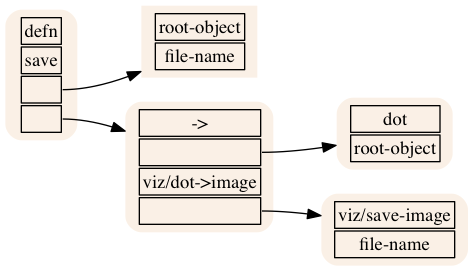
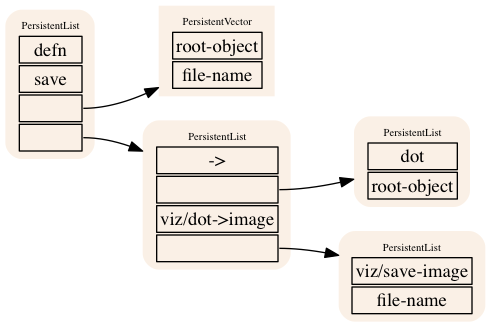
Update README and examples

Changed region(s): [[0.0, 0.0, 0.9767, 0.9742]]

diff --git a/README.md b/README.md
@@ -7,7 +7,9 @@ Graphviz.
 
 ## Usage
 
-Pretty printing 
+Pretty printing can only take you so far; eventually 
+a different visual representation is handy for really seeing how all you
+data is connected and related.
 
 
 ```
@@ -19,6 +21,7 @@ Pretty printing
           :enabled? true
           :vector [1 2 3 4]
           :sequence (iterate inc 1)
+          :set #{:science-fiction :romance :military}
           :atom (atom {:foo :bar :empty {}})
           :empty {}})
 ```
@@ -28,30 +31,46 @@ that displays the following:
 
 ![example](basics.png)
 
-* Maps and Sequences have rounded edges, Vectors have square edges.
+* Maps, Sets, and Sequences have rounded edges, Vectors have square edges.
 
-* The empty map, vector, and sequence are rendered specially.
+* Composite types are labeled with their (abbreviated) type.
 
-* No support for sets yet (early days!)
+* The empty map, vector, hash, and sequence values are rendered specially.
 
 * Refs, such as Atoms and Vars, are supported.
 
-* Sequences are abbreviated; Maps and Vectors are always fully rendered.
+* Sequences are abbreviated; Maps, Sets, and Vectors are always fully rendered.
 
 * There is not (yet) a limit on how deeply Datascope will recurse through the structures.
 
 Using the rest of the Rhizome API, you can easily save the images to disk
 instead of viewing them in a frame.
-         
-Datascope tries to be smart about rendering collections just once.
-If two collections are equal, they will render as a single node.
-          
-* For sequences (which can be lazy and infinite), the check is for
-  identity, not equivalence.
-* Maps and vectors with the same value but different meta data will be 
-  treated as a single node in the graph.
-* (Currently) meta-data is not presented in the graph.  
-         
+
+And, remember, Clojure code is data:
+
+
+```
+(require '[com.walmartlabs.datascope :as ds])
+
+(ds/view 
+'(defn save
+    [root-object file-name]
+    (-> (dot root-object)
+      viz/dot->image
+      (viz/save-image file-name))))
+```
+
+![save-function](save-function.png)
+
+## Upcoming Features
+
+* Optional rendering of meta data
+
+* Depth limit on rendering
+
+* Open up more internal API to support rendering of more types
+
+* Rendering of JavaBeans
 
 ## License
 
